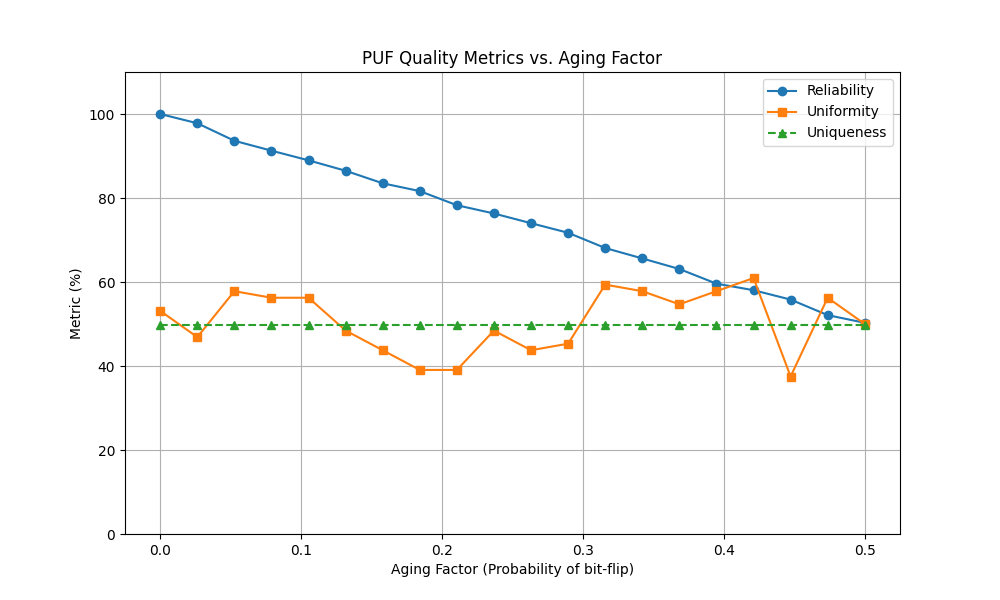
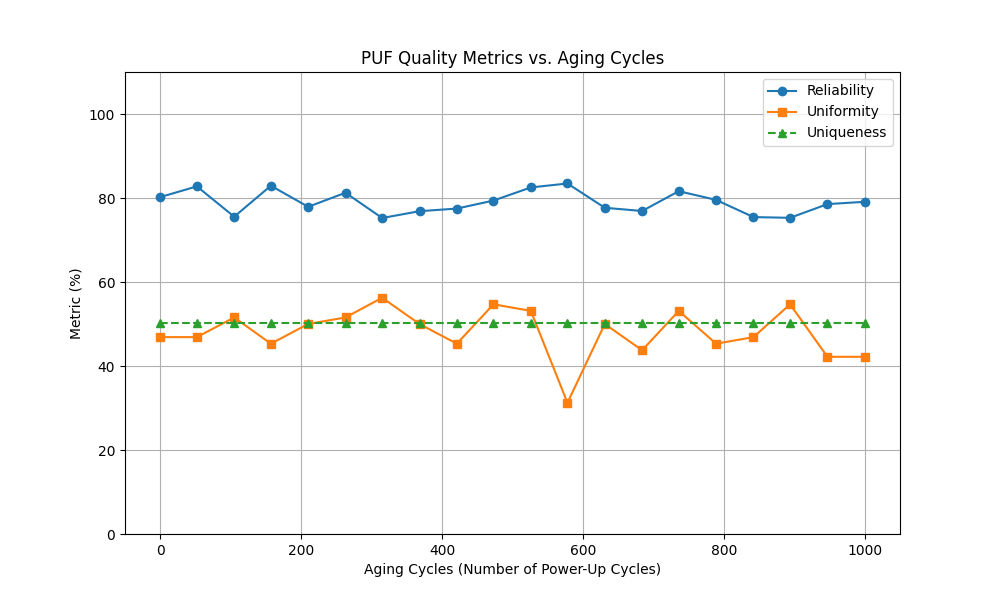
feat: add storage_pattern to cell

diff --git a/model/cell.py b/model/cell.py
@@ -1,95 +1,126 @@
 import numpy as np
 
 class SRAMCell:
-    """Simulates a single Static Random-Access Memory (SRAM) cell.
-
-    This model captures the intrinsic properties of an SRAM cell, including its
-    preferred startup value (initial_value) and its inherent stability. It 
-    simulates the power-up process, considering environmental factors like 
-    temperature and voltage, as well as aging effects (NBTI and anti-aging 
-    mechanisms). The cell's state can be read and written to.
-
-    Attributes:
-        initial_value (int): The stable, preferred startup value (0 or 1) of the cell.
-        stability (float): The intrinsic stability of the cell (0.0 to 1.0).
-        value (int): The current value of the cell (0 or 1).
-        age (int): A counter for the number of power-up cycles, simulating aging.
+    """Improved SRAM cell model considering cell-specific stability parameters.
+    
+    This model simulates realistic SRAM behavior by incorporating:
+    - Individual cell stability variations (threshold voltage mismatch)
+    - NBTI (Negative Bias Temperature Instability) aging effects
+    - Anti-aging mitigation strategies
+    - Environmental factors (temperature, voltage)
     """
+    
     def __init__(self, initial_value=None, stability_param=None):
-        """
+        """Initialize an improved SRAM cell.
+        
         Args:
-            initial_value (int, optional): The preferred startup value (0 or 1) 
-                of the cell. If None, a random value is chosen. Defaults to None.
-            stability_param (float, optional): A parameter representing the cell's 
-                stability, analogous to Vth mismatch. A value closer to 1.0 
-                indicates higher stability, while a value closer to 0.0 indicates 
-                lower stability. If None, a value is sampled from a Beta 
-                distribution to mimic real-world variations. Defaults to None.
+            initial_value (int, optional): The cell's preferred power-up value (0 or 1).
+                                          If None, randomly chosen to simulate manufacturing variation.
+            stability_param (float, optional): Cell stability parameter representing Vth mismatch.
+                                             Range 0-1, where 1 is most stable.
+                                             If None, sampled from realistic beta distribution.
         """
-        # Set the initial (preferred) power-up value.
+        # Determine the cell's preferred power-up value
         if initial_value is None:
             self.initial_value = np.random.randint(2)
         else:
             self.initial_value = initial_value
         
-        # Set the stability parameter.
-        # If not provided, sample from a distribution that mimics reality.
+        # Set cell stability parameter reflecting process variations
         if stability_param is None:
-            # Use a Beta distribution to simulate a realistic distribution:
-            # Most cells are very stable (close to 1.0), while a few are 
-            # very unstable (close to 0.0).
-            self.stability = np.random.beta(a=8, b=2)  
+            # Use beta distribution to model real threshold voltage mismatch distribution
+            # Most cells are stable (close to 1), few cells are unstable (close to 0)
+            self.stability = np.random.beta(a=8, b=2)
         else:
             self.stability = np.clip(stability_param, 0.0, 1.0)
         
+        # Initialize cell value and aging counter
         self.value = self.initial_value
-        self.age = 0  # Tracks the aging of the cell.
-
+        self.age = 0  # Tracks cumulative aging in power-up cycles
+    
     def power_up(self, temperature=25, voltage_ratio=1.0, 
-                 anti_aging=False):
-        """
-        Simulates the power-up behavior of the cell, considering various factors.
+                 anti_aging=False, storage_pattern='static'):
+        """Simulate the power-up behavior of the cell, considering multiple degradation mechanisms.
         
         Args:
-            temperature (float): The ambient temperature in Celsius, which affects noise.
-            voltage_ratio (float): The supply voltage ratio relative to the nominal voltage.
-            anti_aging (bool): Whether to apply an anti-aging mitigation strategy.
+            temperature (float): Ambient temperature in Celsius. Affects noise and aging rate.
+                                Default is 25°C (room temperature).
+            voltage_ratio (float): Supply voltage ratio relative to nominal voltage.
+                                  1.0 = nominal, 1.2 = 20% overvoltage (accelerated aging test).
+            anti_aging (bool): Whether anti-aging mitigation is applied.
+                              If True, stores the inverse of initial value to counteract NBTI.
+            storage_pattern (str): Storage strategy - 'static' (fixed value), 
+                                  'random' (random 0/1), or 'optimized' (anti-aging).
         """
-        # Calculate the effect of aging on stability.
-        if anti_aging:
-            # Anti-aging techniques can make the cell more stable over time.
-            aging_effect = 0.05 * np.sqrt(self.age / 1000)  
-            effective_stability = min(1.0, self.stability + aging_effect)
-        else:
-            # Without anti-aging, NBTI (Negative Bias Temperature Instability) degrades stability.
-            aging_effect = 0.1 * np.sqrt(self.age / 1000)
-            effective_stability = max(0.0, self.stability - aging_effect)
         
-        # Temperature effect: Deviation from 25°C increases noise.
+        # Calculate permanent NBTI damage (irreversible component, ~20-40% of total)
+        # Follows sqrt(time) relationship: permanent damage = A * sqrt(time)
+        permanent_aging = 0.03 * np.sqrt(self.age / 1000)
+        
+        if storage_pattern == 'optimized' or anti_aging:
+            # Anti-aging strategy: Store the inverse value
+            # This makes the other PMOS experience negative bias
+            # Recoverable NBTI damage increases threshold voltage difference
+            # Result: Cell becomes MORE stable over time
+            recoverable_effect = 0.05 * np.sqrt(self.age / 1000)
+            effective_stability = min(1.0, self.stability + recoverable_effect - permanent_aging)
+            
+        elif storage_pattern == 'random':
+            # Random storage between 0 and 1
+            # Recoverable NBTI components average out between two transistors
+            # However, HCI (Hot Carrier Injection) damage increases due to frequent switching
+            hci_damage = 0.02 * np.sqrt(self.age / 1000)
+            effective_stability = max(0.0, self.stability - permanent_aging - hci_damage)
+            
+        else:  # storage_pattern == 'static'
+            # Traditional approach: Store the natural preferred value
+            # One PMOS experiences sustained negative bias
+            # Both permanent and recoverable NBTI components degrade stability
+            recoverable_aging = 0.07 * np.sqrt(self.age / 1000)
+            effective_stability = max(0.0, self.stability - permanent_aging - recoverable_aging)
+        
+        # Calculate temperature effect on noise
+        # Higher temperature increases thermal noise and accelerates aging
         temp_factor = 1.0 + abs(temperature - 25) / 100.0
         
-        # Voltage effect: Deviation from the nominal voltage increases noise.
+        # Calculate voltage effect on noise and aging
+        # Higher voltage increases electric field stress and accelerates NBTI
         voltage_factor = 1.0 + abs(voltage_ratio - 1.0) * 2.0
         
-        # Calculate the final flip probability.
-        # For a highly stable cell, the flip probability is close to 0.
-        # For a highly unstable cell, the flip probability is close to 0.5.
+        # Calculate bit-flip probability during power-up
+        # Stability = 0: 50% chance of flipping (completely unstable)
+        # Stability = 1: ~0% chance of flipping (very stable)
         base_flip_prob = (1 - effective_stability) * 0.5
         flip_prob = base_flip_prob * temp_factor * voltage_factor
         
-        # Determine the power-up value based on the flip probability.
+        # Determine power-up value based on flip probability
         if np.random.rand() < flip_prob:
-            self.value = 1 - self.initial_value  # Bit flip occurred.
+            # Bit flip occurs: cell power-up to opposite of preferred value
+            self.value = 1 - self.initial_value
         else:
+            # No flip: cell power-up to its preferred value
             self.value = self.initial_value
         
-        # Increment the age counter after each power-up cycle.
-        self.age += 1  
-        
+        # Increment age counter (number of power-up cycles experienced)
+        self.age += 1
+    
     def read(self):
+        """Read the current value stored in the cell.
+        
+        Returns:
+            int: Current cell value (0 or 1)
+        """
         return self.value
     
     def write(self, value):
+        """Write a new value to the cell.
+        
+        Args:
+            value (int): Value to write (must be 0 or 1)
+            
+        Raises:
+            ValueError: If value is not 0 or 1
+        """
         if value in [0, 1]:
             self.value = value
         else:

diff --git a/evaluation/evaluate_puf.py b/evaluation/evaluate_puf.py
@@ -50,15 +50,23 @@ def calculate_uniqueness(pufs, num_pufs):
     Returns:
         float: The average uniqueness between all pairs of PUFs, as a percentage.
     """
+    # Get the initial responses for all PUFs
+    puf_responses = []
+    for puf in pufs:
+        response = puf.sram.power_up_array(temperature=25, voltage_ratio=1.0)
+        if puf.stable_mask is not None:
+            response = response[puf.stable_mask]
+        puf_responses.append(response)
+    
     total_distance = 0
     num_comparisons = 0
     for i in range(num_pufs):
         for j in range(i + 1, num_pufs):
-            total_distance += hamming_distance(pufs[i].puf_response, pufs[j].puf_response)
+            total_distance += hamming_distance(puf_responses[i], puf_responses[j])
             num_comparisons += 1
-    return (total_distance / (num_comparisons * pufs[0].puf_response.size)) * 100
+    return (total_distance / (num_comparisons * puf_responses[0].size)) * 100
 
-def calculate_reliability(puf, aging_factor, num_samples=100):
+def calculate_reliability(puf, num_aging_cycles, num_samples=100):
     """Calculates the reliability of a PUF response under aging.
 
     Reliability (or intra-chip variation) measures how stable a PUF's response
@@ -66,17 +74,26 @@ def calculate_reliability(puf, aging_factor, num_samples=100):
 
     Args:
         puf (SRAM_PUF): The SRAM_PUF object to evaluate.
-        aging_factor (float): The aging factor to apply.
+        num_aging_cycles (int): The number of aging cycles to simulate.
         num_samples (int, optional): The number of noisy responses to generate.
                                      Defaults to 100.
 
     Returns:
         float: The reliability of the PUF, as a percentage.
     """
-    original_response = puf.puf_response
+    # Get the initial golden response
+    original_response = puf.sram.power_up_array(temperature=25, voltage_ratio=1.0)
+    if puf.stable_mask is not None:
+        original_response = original_response[puf.stable_mask]
+    
+    # Simulate aging by performing multiple power-up cycles
+    for _ in range(num_aging_cycles):
+        _ = puf.sram.power_up_array(temperature=25, voltage_ratio=1.0)
+    
+    # Now measure reliability after aging
     total_distance = 0
     for _ in range(num_samples):
-        noisy_response = puf.get_response(aging_factor)
+        noisy_response = puf.get_response(temperature=25, voltage_ratio=1.0)
         total_distance += hamming_distance(original_response, noisy_response)
 
     avg_error_rate = total_distance / (num_samples * original_response.size)
@@ -90,8 +107,9 @@ def main():
     """
     # --- Simulation Parameters ---
     rows, cols = 8, 8
+    num_cells = rows * cols
     num_pufs_uniqueness = 50
-    aging_factors = np.linspace(0, 0.5, 20)
+    aging_cycles = np.linspace(0, 1000, 20).astype(int)  # Aging cycles from 0 to 1000
 
     # --- Data Storage ---
     uniformity_results = []
@@ -100,32 +118,38 @@ def main():
 
     # --- Run Simulations ---
     print("Running PUF simulations...")
-    for aging in aging_factors:
+    for cycles in aging_cycles:
         # Reliability and Uniformity
-        puf_for_reliability = SRAM_PUF(rows, cols)
-        reliability = calculate_reliability(puf_for_reliability, aging)
-        uniformity = calculate_uniformity(puf_for_reliability.puf_response)
+        puf_for_reliability = SRAM_PUF(num_cells)
+        
+        # Get initial response for uniformity calculation
+        initial_response = puf_for_reliability.sram.power_up_array(temperature=25, voltage_ratio=1.0)
+        if puf_for_reliability.stable_mask is not None:
+            initial_response = initial_response[puf_for_reliability.stable_mask]
+        
+        uniformity = calculate_uniformity(initial_response)
+        reliability = calculate_reliability(puf_for_reliability, cycles)
         reliability_results.append(reliability)
         uniformity_results.append(uniformity)
 
         # Uniqueness (calculated once, as it's independent of aging)
         if not uniqueness_results: # only run once
-            pufs_for_uniqueness = [SRAM_PUF(rows, cols) for _ in range(num_pufs_uniqueness)]
+            pufs_for_uniqueness = [SRAM_PUF(num_cells) for _ in range(num_pufs_uniqueness)]
             uniqueness = calculate_uniqueness(pufs_for_uniqueness, num_pufs_uniqueness)
-            uniqueness_results = [uniqueness] * len(aging_factors)
+            uniqueness_results = [uniqueness] * len(aging_cycles)
 
-        print(f"  Aging Factor: {aging:.2f} | Reliability: {reliability:.2f}% | Uniformity: {uniformity:.2f}%")
+        print(f"  Aging Cycles: {cycles} | Reliability: {reliability:.2f}% | Uniformity: {uniformity:.2f}%")
 
     print(f"Overall Uniqueness: {uniqueness_results[0]:.2f}%")
 
     # --- Plotting ---
     plt.figure(figsize=(10, 6))
-    plt.plot(aging_factors, reliability_results, marker='o', label='Reliability')
-    plt.plot(aging_factors, uniformity_results, marker='s', label='Uniformity')
-    plt.plot(aging_factors, uniqueness_results, marker='^', linestyle='--', label='Uniqueness')
+    plt.plot(aging_cycles, reliability_results, marker='o', label='Reliability')
+    plt.plot(aging_cycles, uniformity_results, marker='s', label='Uniformity')
+    plt.plot(aging_cycles, uniqueness_results, marker='^', linestyle='--', label='Uniqueness')
 
-    plt.title('PUF Quality Metrics vs. Aging Factor')
-    plt.xlabel('Aging Factor (Probability of bit-flip)')
+    plt.title('PUF Quality Metrics vs. Aging Cycles')
+    plt.xlabel('Aging Cycles (Number of Power-Up Cycles)')
     plt.ylabel('Metric (%)')
     plt.grid(True)
     plt.legend()
